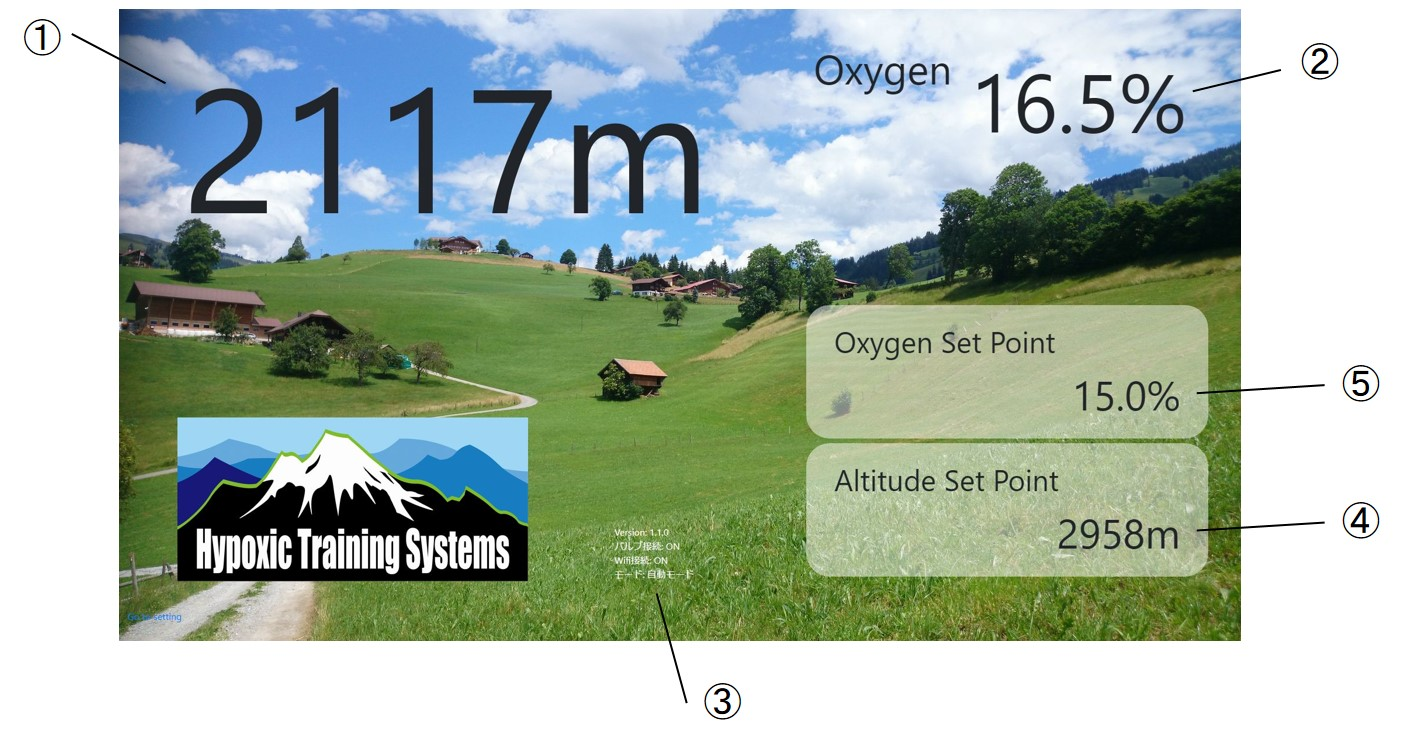
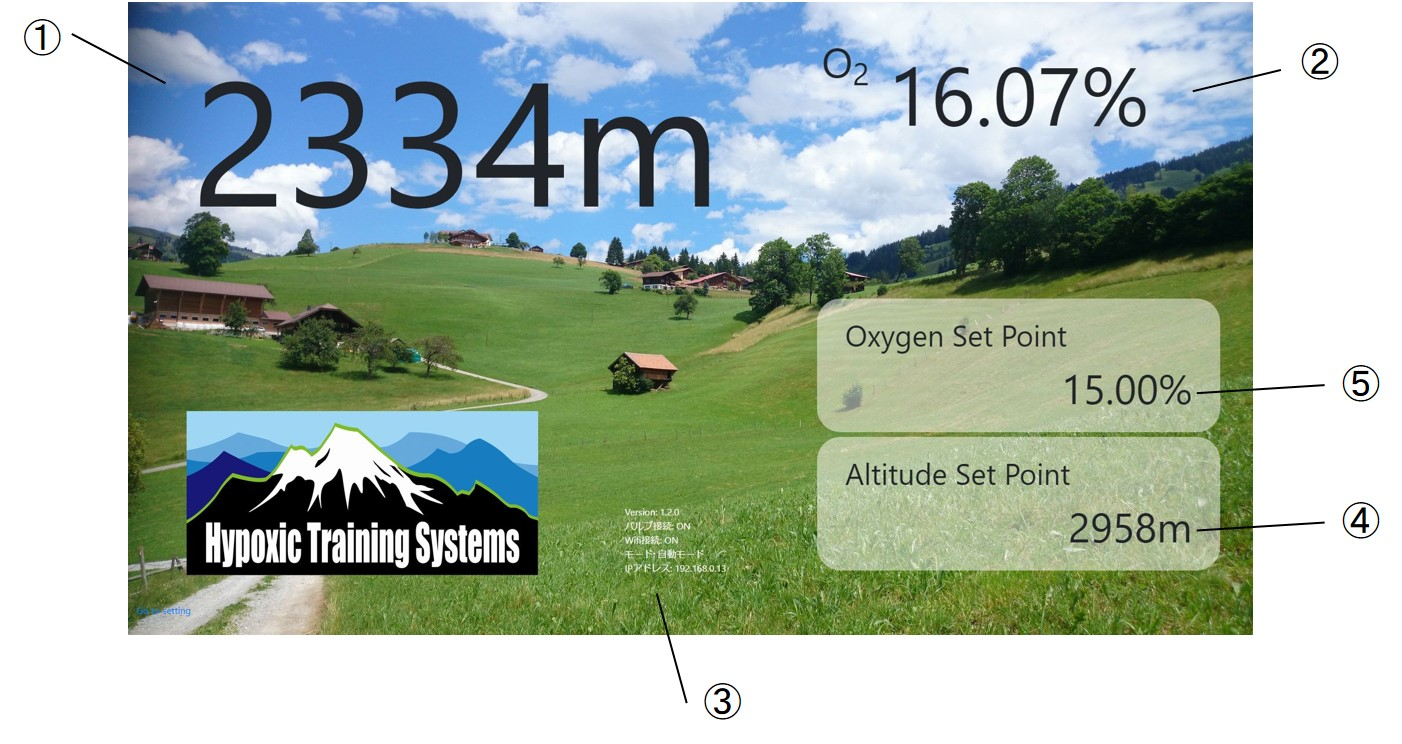
1.2.0にアップデート

Changed region(s): [[0.0613, 0.0, 0.9201, 0.8656], [0.4294, 0.4637, 0.5214, 0.5565]]

diff --git a/README.md b/README.md
@@ -14,12 +14,13 @@ AC100V：[AD11-15A-03A-AC100V](https://www.ckd.co.jp/kiki/jp/product/detail/210/
 
 # 更新履歴
 
-| Version |    日付    | 履歴                                                                           |
-| :-----: | :--------: | :----------------------------------------------------------------------------- |
-| 1.1.1a  | 2021/02/24 | ACバルブ拡張モジュールの説明を追加                                             |
-|  1.1.1  | 2021/02/10 | 起動時に前回終了時のバルブ制御モードおよびバルブON/OFF状態を読み出すように修正 |
-|  1.1.0  | 2021/02/07 | 画面レイアウトを変更、背景画像を変更                                           |
-|  1.0.3  | 2021/01/30 | First Release                                                                  |
+|    Version    |    日付    | 履歴                                                                                                                                     |
+| :-----------: | :--------: | :--------------------------------------------------------------------------------------------------------------------------------------- |
+|     1.2.0     | 2021/03/06 | 自動制御スケジュール変更時に時刻に応じて自動制御ON/OFFする機能を追加<br>濃度設定に対するバルブ開閉の補正値を変更できるよう修正<br>Bugfix |
+| 1.1.1（追記） | 2021/02/24 | ACバルブ拡張モジュールの説明を追加                                                                                                       |
+|     1.1.1     | 2021/02/10 | 起動時に前回終了時のバルブ制御モードおよびバルブON/OFF状態を読み出すように修正                                                           |
+|     1.1.0     | 2021/02/07 | 画面レイアウトを変更、背景画像を変更                                                                                                     |
+|     1.0.3     | 2021/01/30 | First Release                                                                                                                            |
 
 # 諸元
 |       項目       |         概要          |
@@ -73,6 +74,7 @@ AC100V：[AD11-15A-03A-AC100V](https://www.ckd.co.jp/kiki/jp/product/detail/210/
 ## バルブコントローラ
 メインコントローラと通信し、バルブを駆動します。
 バルブコントローラに直接接続するバルブは、必ずDC12V駆動のものとしてください。
+AC100V仕様のバルブを使う際は、後述のAC拡張モジュールをご使用ください。
 <img src="resource/cad_valve_controller-exp.png" width=70%>
 
 1. 電源プラグ(12V3A)
@@ -82,6 +84,12 @@ AC100V：[AD11-15A-03A-AC100V](https://www.ckd.co.jp/kiki/jp/product/detail/210/
 5. 低酸素バルブステータスLED（赤）
 6. 空気バルブステータスLED（赤）
 7. メインコントローラ接続ステータスLED（緑）
+
+## AC拡張モジュール
+バルブコントローラに接続し、AC100V仕様のバルブを駆動します。
+
+<img src="resource/ac_module.jpg" width=70%>
+
 
 # 主な使い方
 
@@ -145,7 +153,7 @@ AC100V：[AD11-15A-03A-AC100V](https://www.ckd.co.jp/kiki/jp/product/detail/210/
 3. SDカードスロットからSDカードを外します。手で取りにくい場合は、マイナスドライバーのような細いものでSDカードを取り出してください。その際、力をかけすぎてSDカードを破損しないように気をつけてください。
 4. SDカードをPCに接続します。その際、「フォーマットしますか？」といったメッセージが表示される場合がありますが、全て無視してください。
 5. [wpa_supplicant.conf](sample/wpa_supplicant.conf)をダウンロードし、ssidとpskをそれぞれお使いのWifiのSSID,パスワードに書き換えてください。（5GHzには対応していません。必ず2.4GHzのWifiをご使用ください）
-6. 開いたSDカードのフォルダのトップの階層に、編集したwpa_supplicant.confをコピーします。ファイル名は変えないでください。
+6. 開いたSDカードのフォルダ(boot)のトップの階層に、編集したwpa_supplicant.confをコピーします。ファイル名は変えないでください。
 7. SDカードをPCから取り出し、メインコントローラに挿入します。
 8. 電源を入れます。設定が正しければ、メイン画面に「Wifi接続：ON」、またIPアドレスが表示されます。（IPアドレスは設定から非表示にできます）
 
@@ -169,7 +177,8 @@ AC100V：[AD11-15A-03A-AC100V](https://www.ckd.co.jp/kiki/jp/product/detail/210/
 
 ## 設定
 
-ユーザ端末で、「Go to setting」を選択すると設定画面になります。
+ユーザ端末で、「Go to setting」を選択すると設定画面になります。  
+本設定で設定したモードは保存され、再起動後も反映されます。
 
 <img src="resource/setting-alloff.jpg" width=40%>
 
@@ -199,15 +208,20 @@ AC100V：[AD11-15A-03A-AC100V](https://www.ckd.co.jp/kiki/jp/product/detail/210/
 - ログを送信：動作中のログを送信します。動作トラブルなどの際にお使いください。
 - 更新を確認：アプリケーションの更新を確認します。更新があった場合は、確認画面に飛びます。
 - 酸素濃度校正：酸素センサの校正を行うことができます。
+- バルブ開閉濃度設定：目標酸素濃度に対する、各バルブの開閉濃度の補正値を設定できます。設定値は、以下の範囲で設定してください。
+  - 低酸素バルブ開＞低酸素バルブ閉
+  - 空気バルブ開＜空気バルブ閉
+  - 低酸素バルブ開＞空気バルブ閉
+  - 低酸素バルブ閉＜空気バルブ開
 - 設定を初期化：設定画面上の設定をすべて初期化します。
 
 ## 酸素センサの校正方法
 
-出荷時に校正を実施していますが、お使いの環境に応じてセンサの特性が変化する場合があります。そのため、運用開始後に再度校正することをおすすめします。（校正には別途校正された酸素濃度計が必要です）
+出荷時に校正を実施していますが、お使いの環境に応じてセンサの特性が変化する場合があります。計測精度を保つため、月に1度、校正された酸素濃度計との誤差を確認し、必要であれば手順に従い校正を行ってください。（校正には別途校正された酸素濃度計が必要です）
 
 校正手順は以下のとおりです。
 - 部屋を通常の空気で満たした状態で、本システムと酸素濃度計の表示値をメモします。
-- 次に、できるだけ酸素濃度を下げた状態で、本システムと酸素濃度計の表示値をメモします。（酸欠にご注意ください）
+- 次に、低酸素環境で、本システムと酸素濃度計の表示値をメモします。
 - 拡張設定画面にて、「表示濃度」に本システムの表示値を、「校正濃度」に酸素濃度計の表示値を入力し、校正ボタンを押してください。（１と２は高濃度側、低濃度側どちらでも構いません）
 
 # 問い合わせ先
